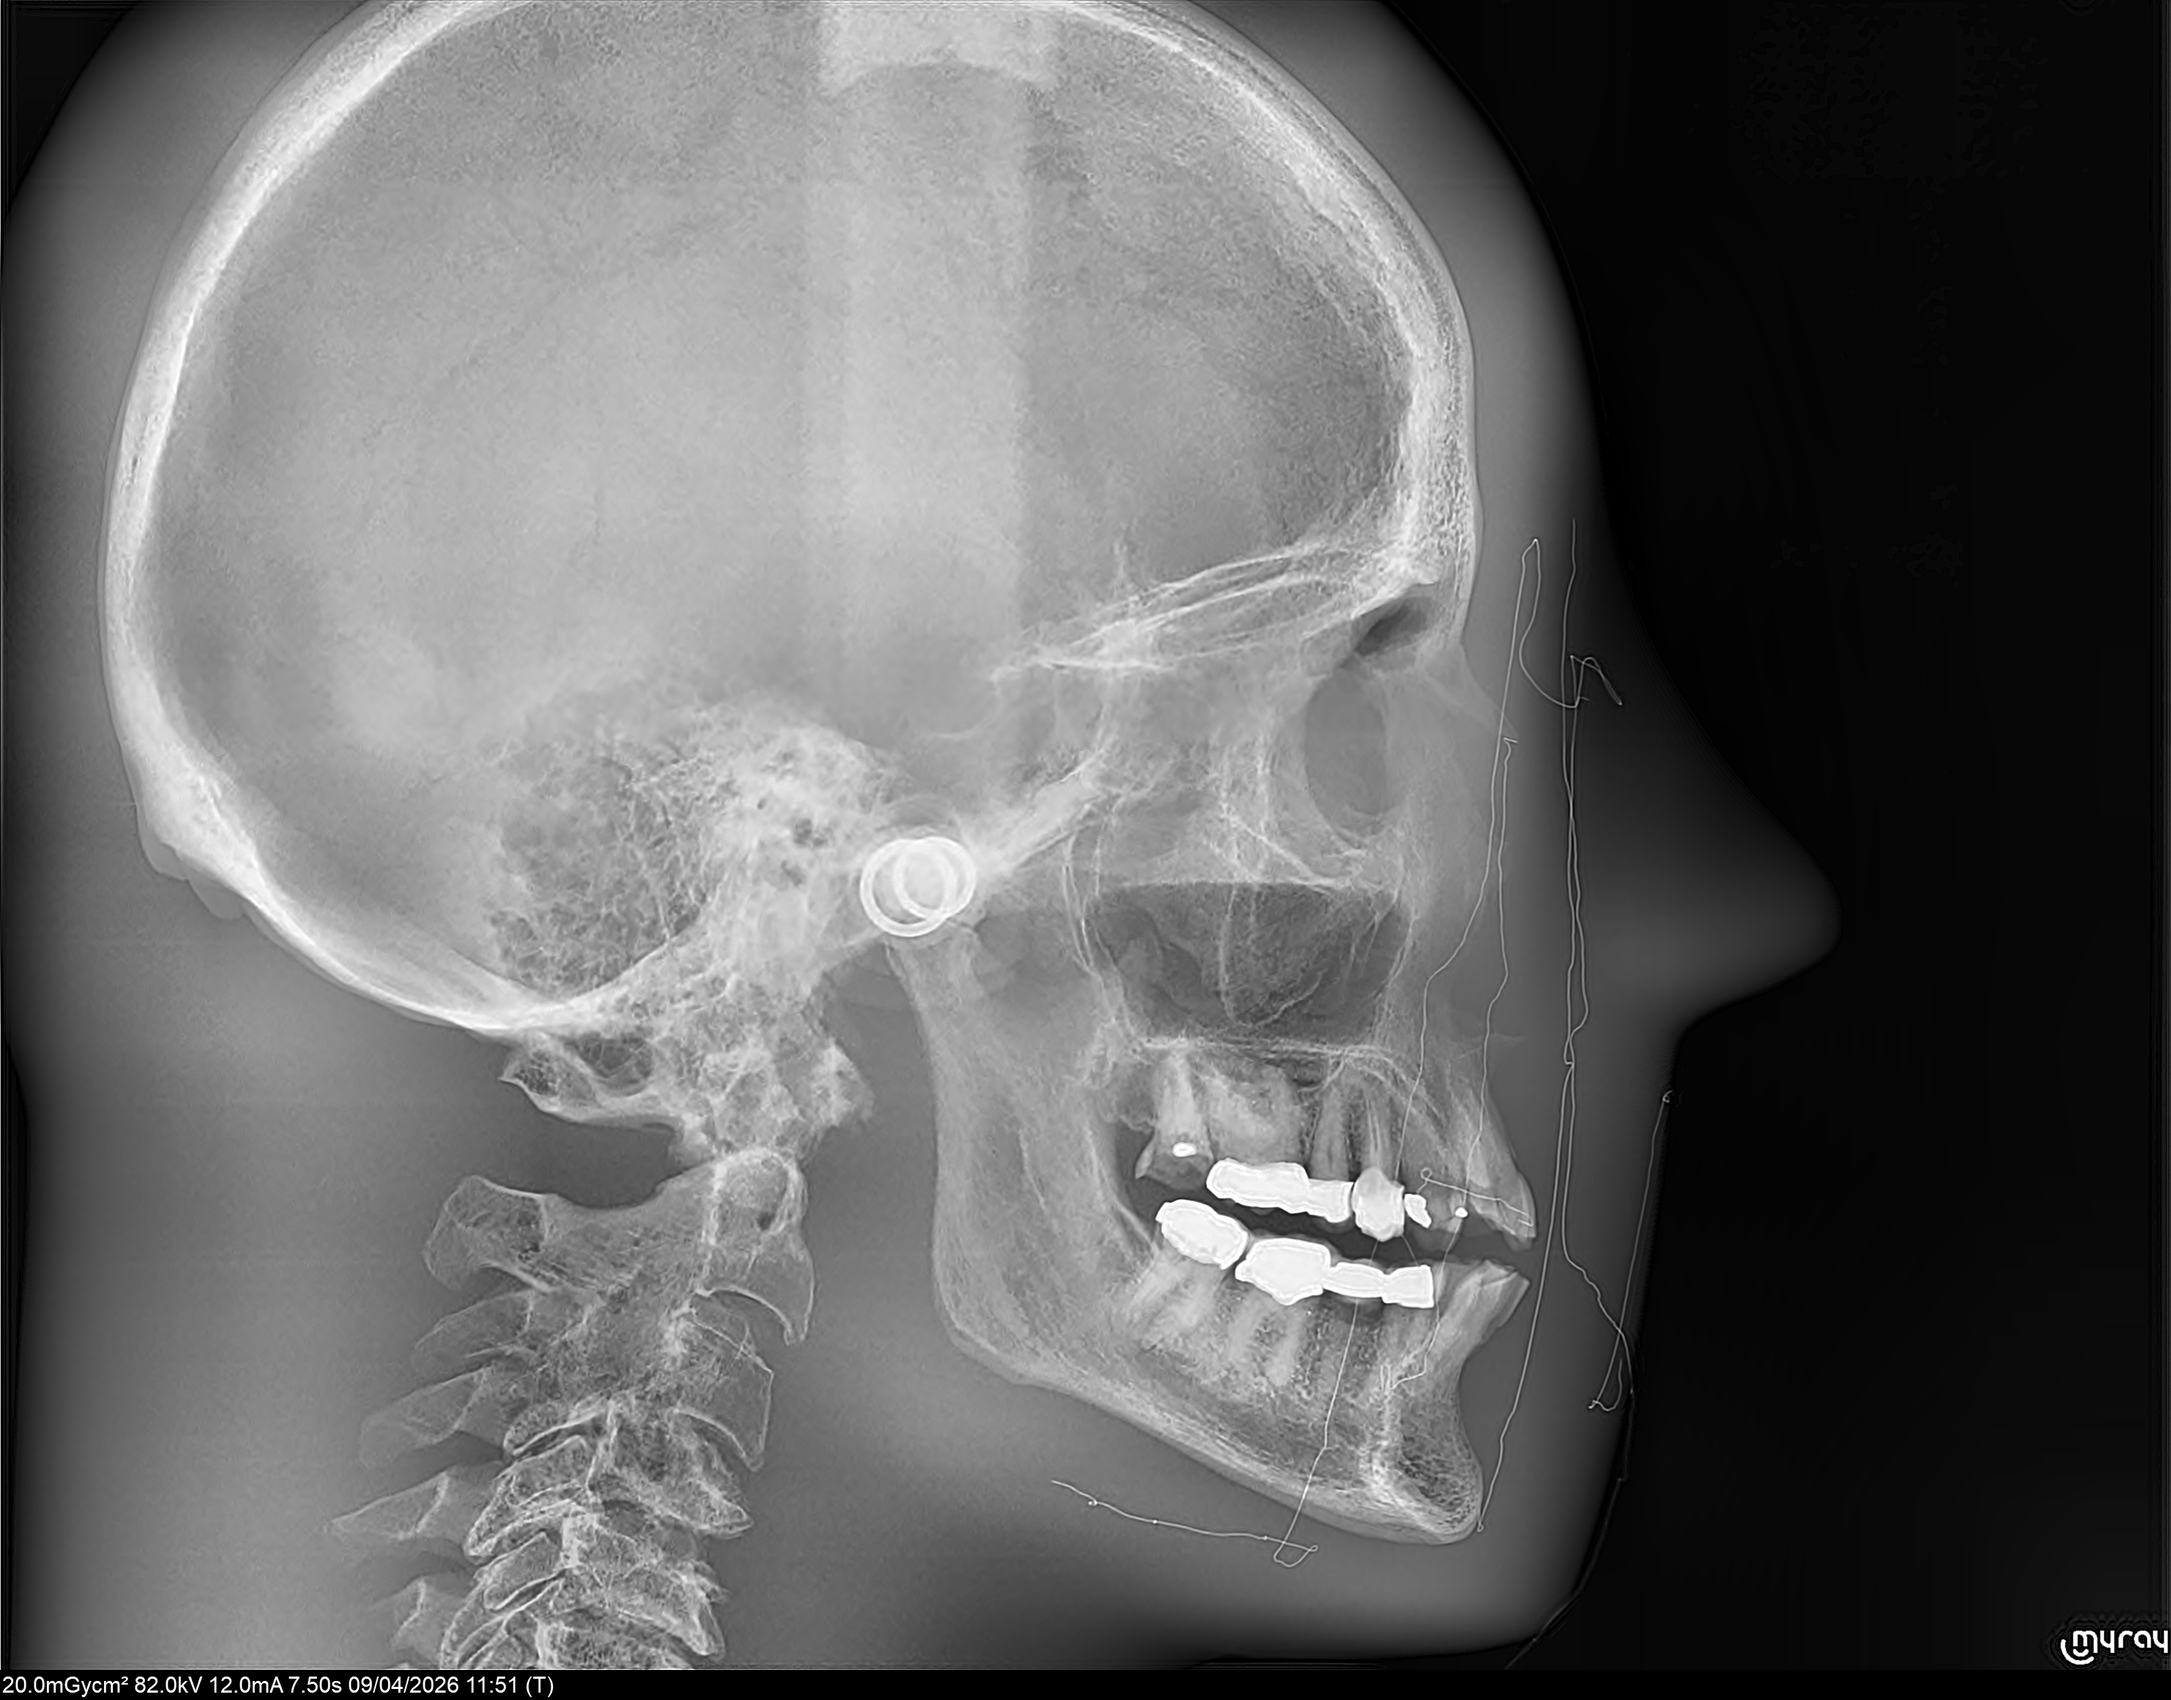
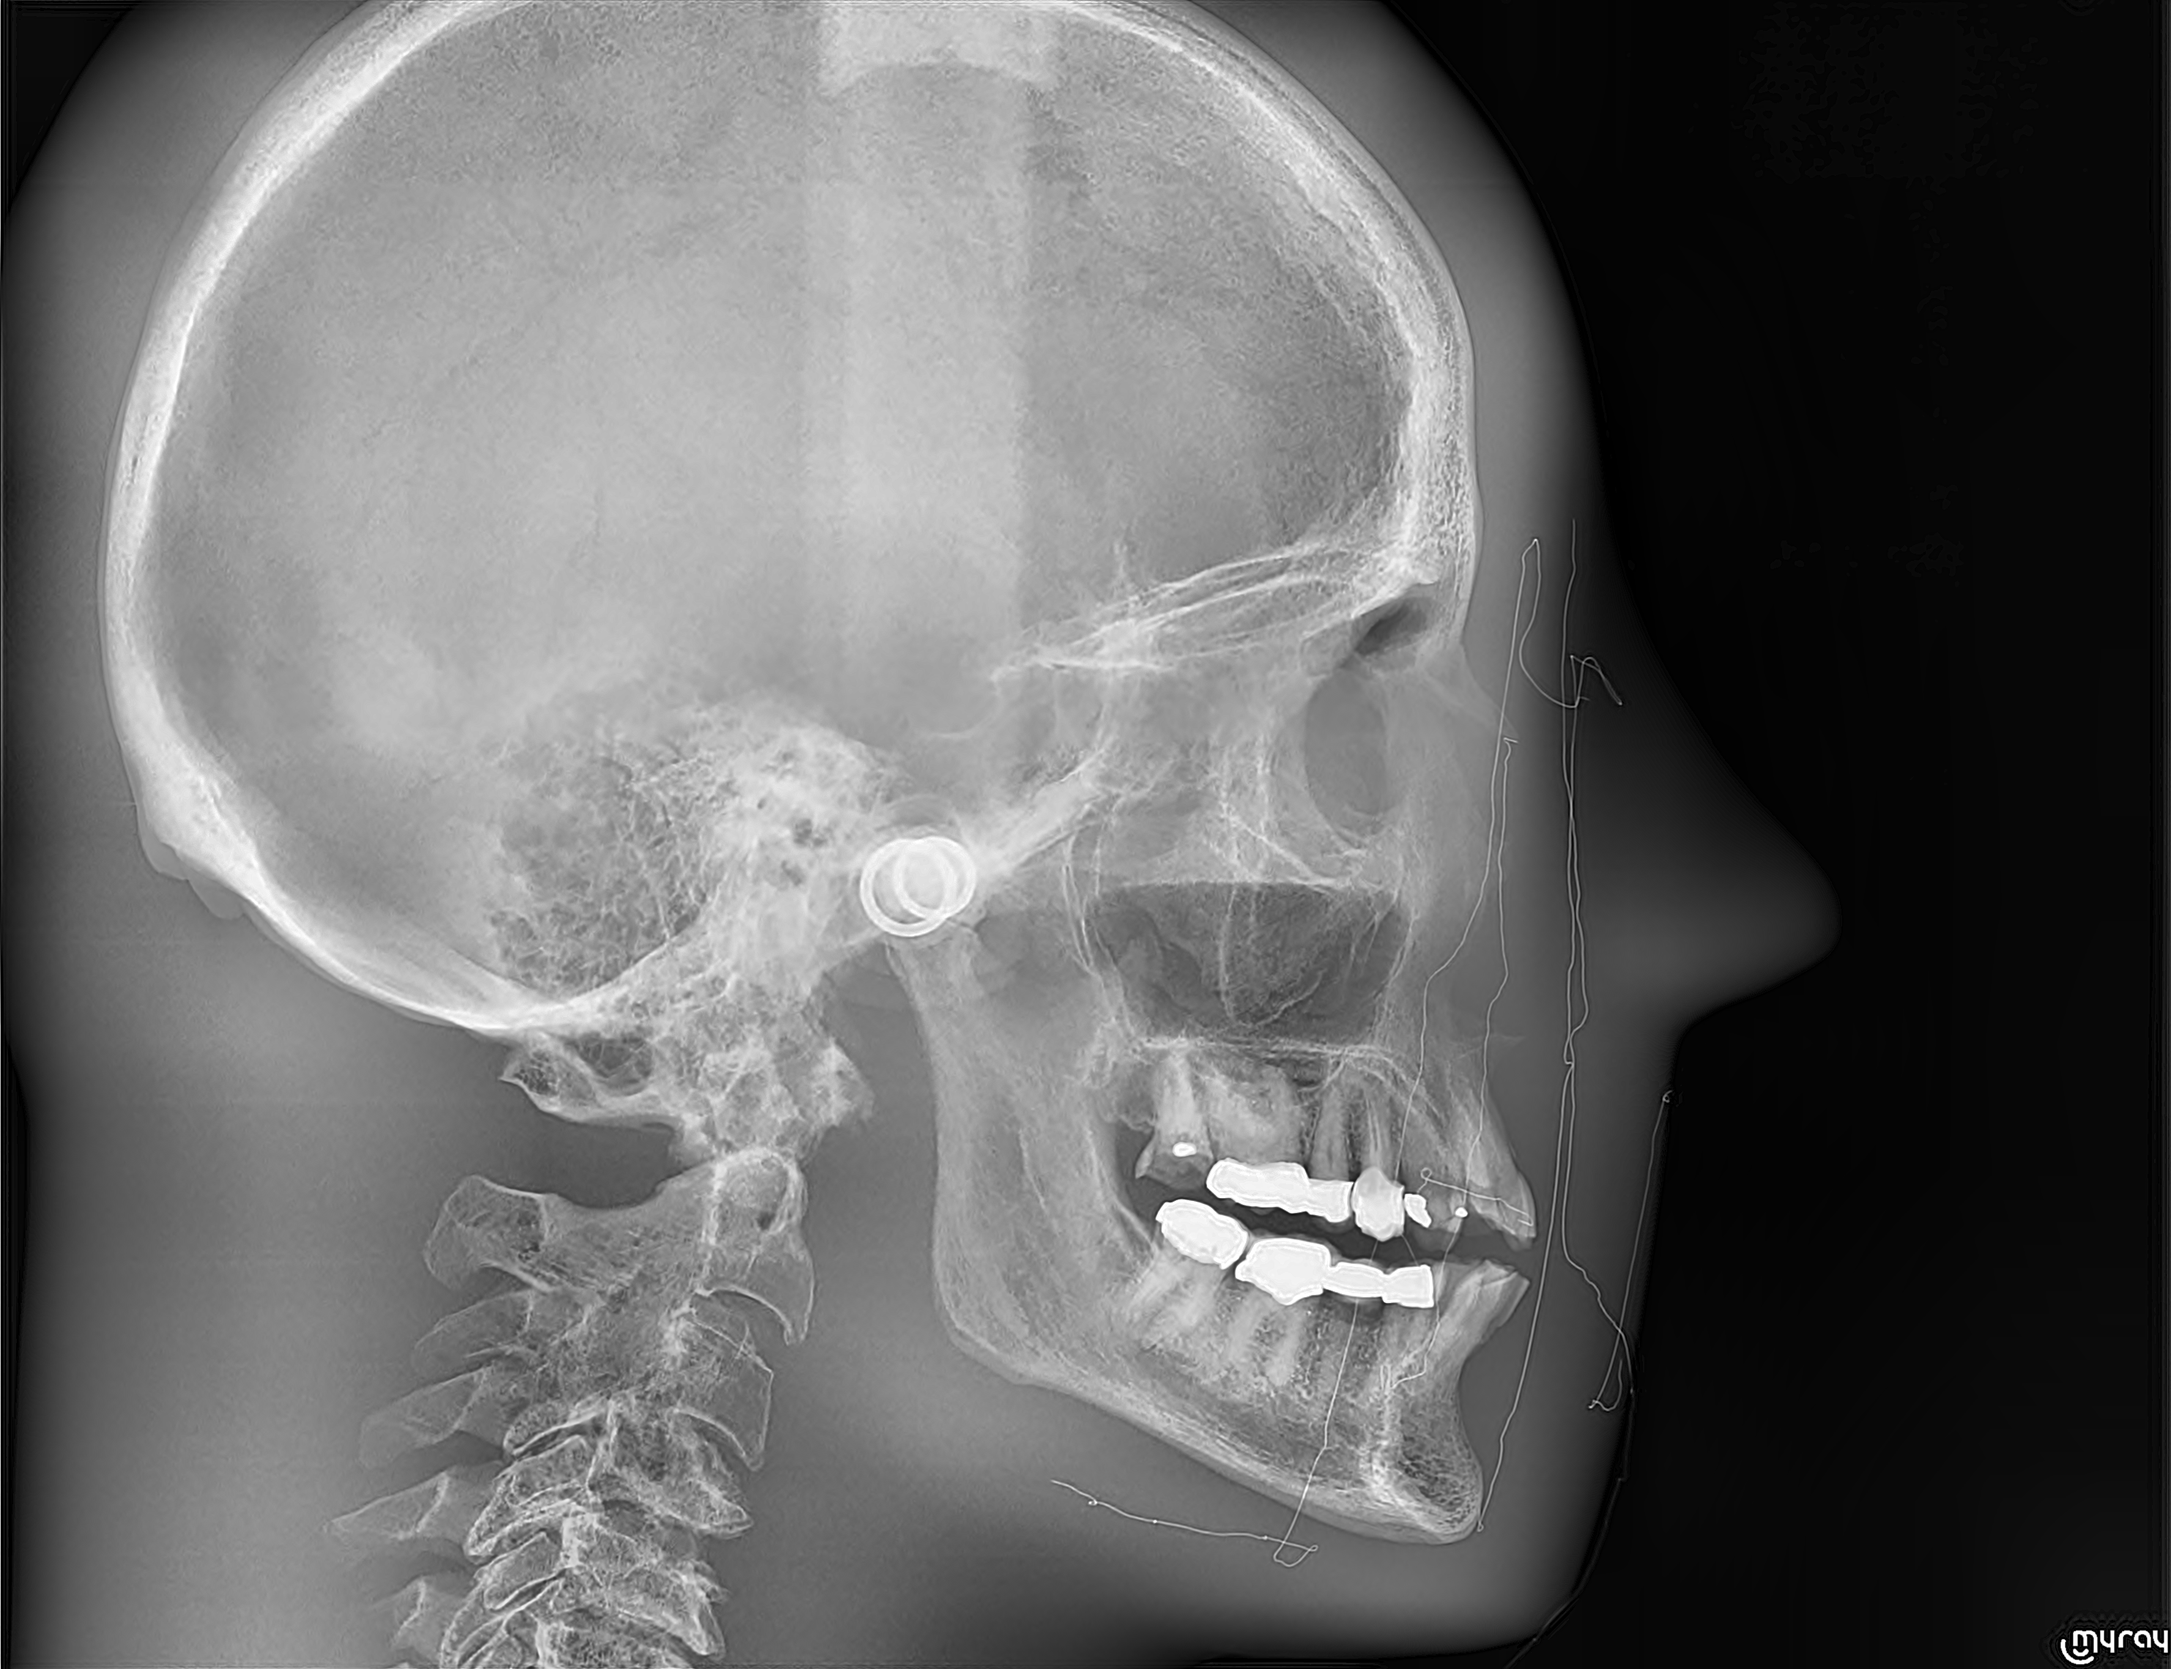
Crop myray watermark from both cephalo images
ufs-cephalo-1.png: 2964x2321 → 2964x2279 (removed 42px black strip from bottom)
ufs-cephalo-2.png: 2722x2281 → 2722x2253 (removed 28px containing white text)
Updated height attributes in ufs.html to match.

https://claude.ai/code/session_01G8RcRNapssA3fDkxvq9Xwx

diff --git a/products/ufs.html b/products/ufs.html
@@ -379,10 +379,10 @@
         <div class="gallery-panel" data-panel="cephalo">
           <div style="display:grid; grid-template-columns:1fr 1fr; gap:1.5rem;">
             <div class="simple-gallery-item" style="cursor:pointer;">
-              <img src="../images/ufs-cephalo-1.png" width="2964" height="2321" alt="Ultra-Fast Scanning Sensor cephalo X-ray 1" loading="lazy" style="width:100%; border-radius:var(--r-lg);">
+              <img src="../images/ufs-cephalo-1.png" width="2964" height="2279" alt="Ultra-Fast Scanning Sensor cephalo X-ray 1" loading="lazy" style="width:100%; border-radius:var(--r-lg);">
             </div>
             <div class="simple-gallery-item" style="cursor:pointer;">
-              <img src="../images/ufs-cephalo-2.png" width="2722" height="2281" alt="Ultra-Fast Scanning Sensor cephalo X-ray 2" loading="lazy" style="width:100%; border-radius:var(--r-lg);">
+              <img src="../images/ufs-cephalo-2.png" width="2722" height="2253" alt="Ultra-Fast Scanning Sensor cephalo X-ray 2" loading="lazy" style="width:100%; border-radius:var(--r-lg);">
             </div>
           </div>
         </div>
